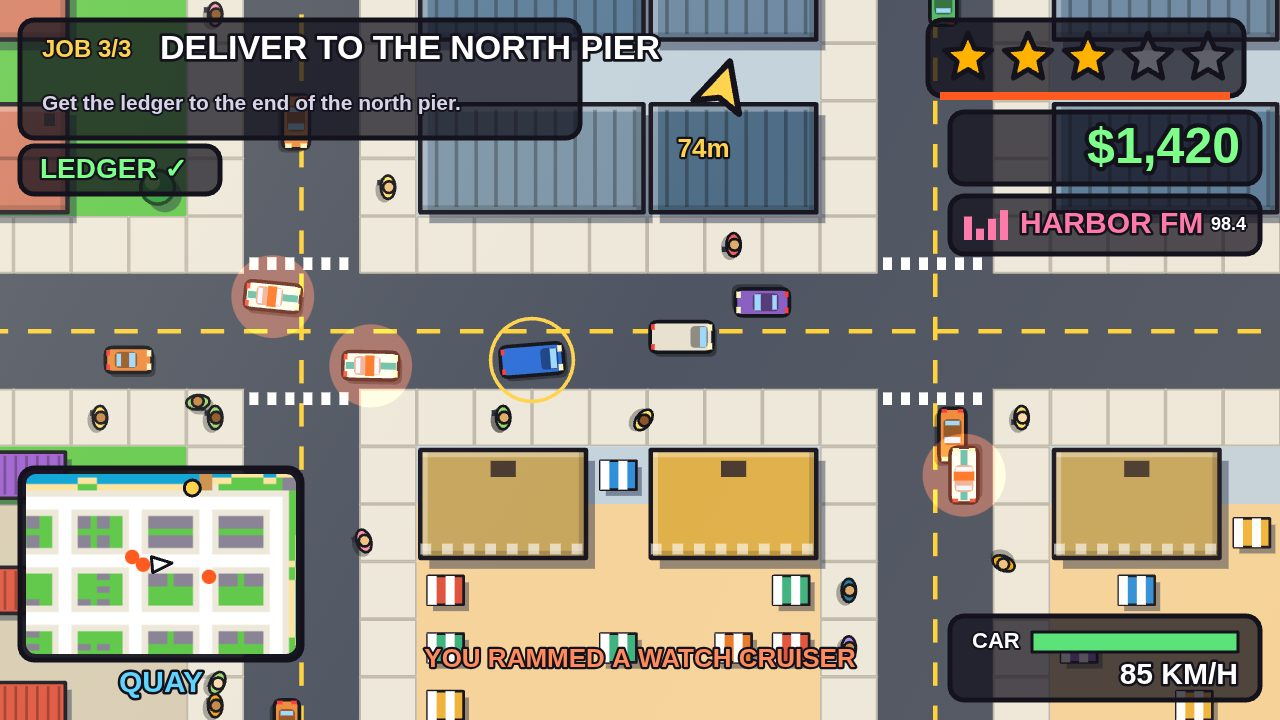
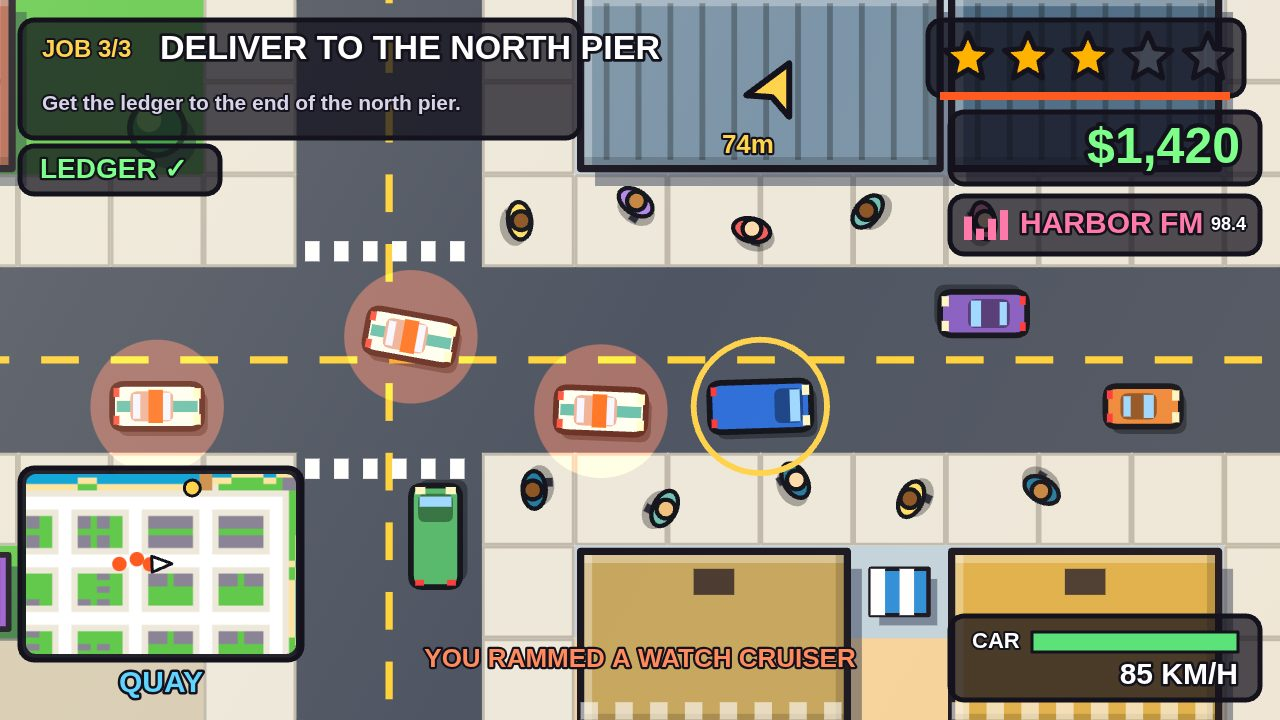
Bring the chase cover closer so the van, cruisers and pedestrians read on the contact sheet.

diff --git a/game/src/shots.js b/game/src/shots.js
@@ -22,6 +22,16 @@ function crowd(world, cx, cy, count, radius) {
   }
 }
 
+function walkers(world, spots) {
+  for (const [x, y] of spots) {
+    if (tileAt(world.city, x, y) !== WALK) continue;
+    const p = makePed(x, y, world.rng);
+    p.face = world.rng() * Math.PI * 2;
+    p.step = world.rng() * 6;
+    world.peds.push(p);
+  }
+}
+
 function cruiser(world, x, y, angle, speed) {
   const c = makeCar('watch', x, y, angle);
   c.driver = 'watch';
@@ -94,19 +104,27 @@ export function stageShot(name, seed) {
   }
   const world = createWorld({ seed, job: 2, cash: 1420 });
   world.jobs.ledger = true;
-  boardVan(world, 34 * T, 19.5 * T, -0.08, 340);
+  const camX = 2093;
+  const camY = 19 * T;
+  world.cars = world.cars.filter((c) => Math.abs(c.x - camX) > 700 || Math.abs(c.y - camY) > 450);
+  world.peds = world.peds.filter((p) => Math.abs(p.x - camX) > 700 || Math.abs(p.y - camY) > 450);
+  boardVan(world, 2176, 19.5 * T, -0.03, 340);
   setLevel(world.wanted, 3);
   world.wanted.flash = 0;
-  cruiser(world, 31.2 * T, 19.6 * T, 0.02, 360);
-  cruiser(world, 29.5 * T, 18.4 * T, 0.1, 330);
-  cruiser(world, 41.5 * T, 21.5 * T, -Math.PI / 2, 300);
-  civilian(world, 38 * T, 18.5 * T, Math.PI, 'sedan', '#8a5fc2');
-  civilian(world, 27 * T, 19.5 * T, 0, 'hatch', '#ef8a3c');
-  crowd(world, 34 * T, 19 * T, 10, 560);
+  cruiser(world, 2066, 19.55 * T, 0.04, 360);
+  cruiser(world, 1935, 18.75 * T, 0.18, 330);
+  cruiser(world, 1760, 19.5 * T, 0, 320);
+  civilian(world, 2330, 18.5 * T, Math.PI, 'sedan', '#8a5fc2');
+  civilian(world, 2440, 19.5 * T, 0, 'hatch', '#ef8a3c');
+  civilian(world, 1952, 20.9 * T, -Math.PI / 2, 'van', '#57b86b');
+  walkers(world, [
+    [2010, 17.5 * T], [2090, 17.3 * T], [2170, 17.6 * T], [2250, 17.4 * T], [2330, 17.5 * T],
+    [2020, 20.4 * T], [2110, 20.6 * T], [2200, 20.3 * T], [2280, 20.5 * T], [2370, 20.4 * T],
+  ]);
   world.time = 8.3;
-  snapCamera(world);
-  world.camera.x += 120;
-  world.camera.zoom = 0.9;
+  world.camera.x = camX;
+  world.camera.y = camY;
+  world.camera.zoom = 1.45;
   world.feed.push({ text: 'YOU RAMMED A WATCH CRUISER', color: '#ff8a5c', time: 3 });
   return { world, mode: 'play' };
 }
